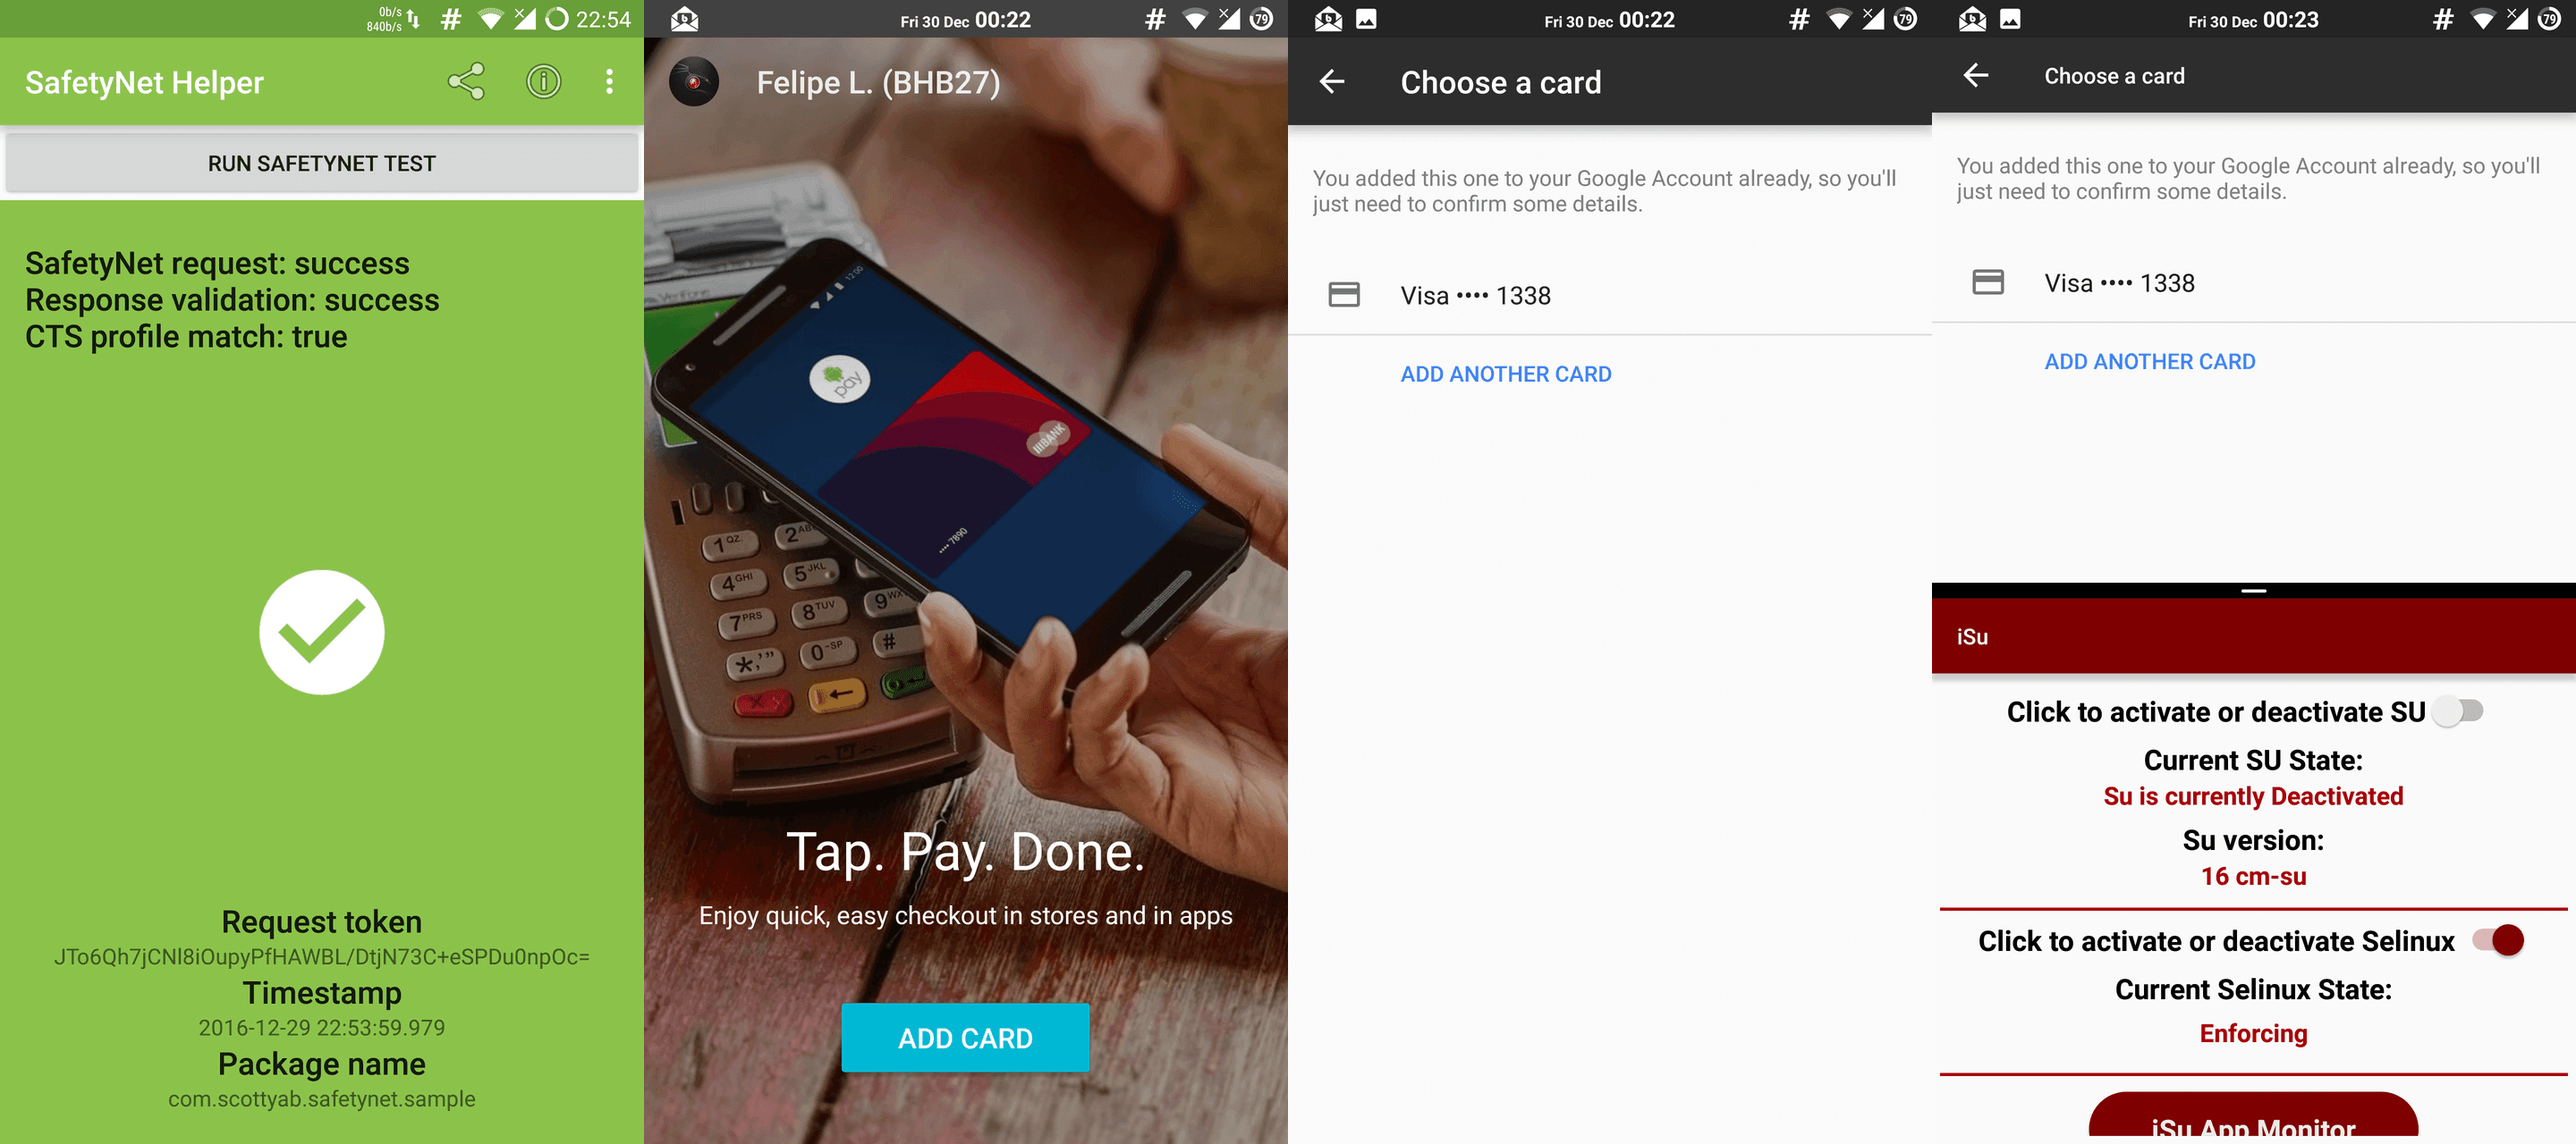
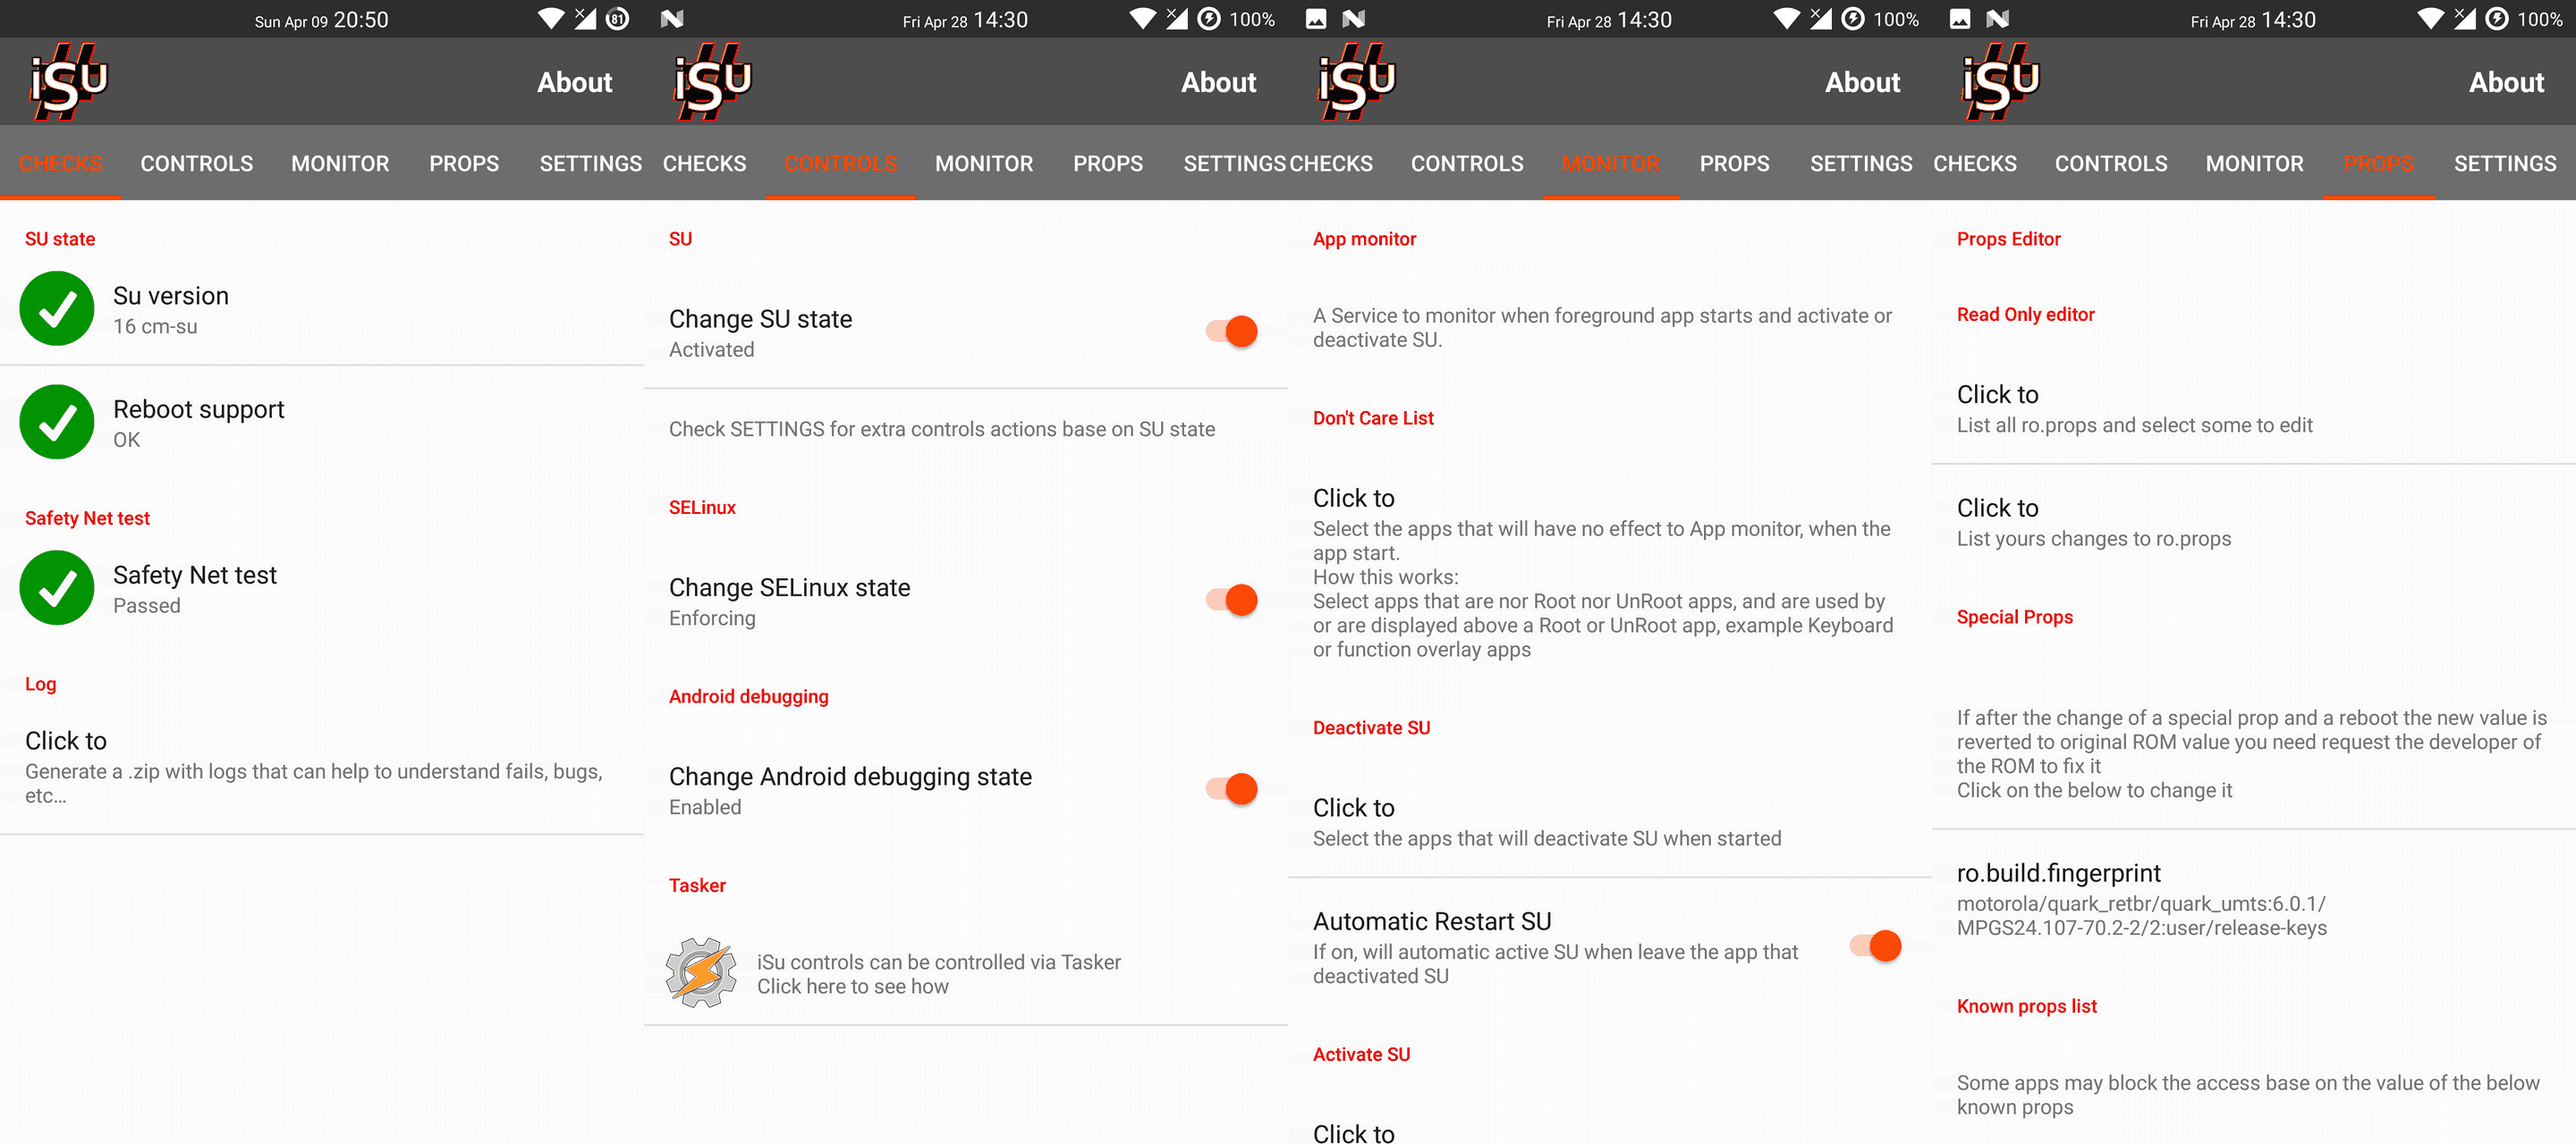
Update readme and ss

diff --git a/README.md b/README.md
@@ -4,8 +4,6 @@ A simple app to hide SU and pass safety net verification, today it works only on
 
 ![isu_A01_Screenshot](https://raw.githubusercontent.com/bhb27/isu/master/screenshots/A01.png)
 ![isu_A02_Screenshot](https://raw.githubusercontent.com/bhb27/isu/master/screenshots/A02.png)
-![isu_A03_Screenshot](https://raw.githubusercontent.com/bhb27/isu/master/screenshots/A03.png)
-![isu_A04_Screenshot](https://raw.githubusercontent.com/bhb27/isu/master/screenshots/A04.png)
 
 ## Report a bug request device support
 
